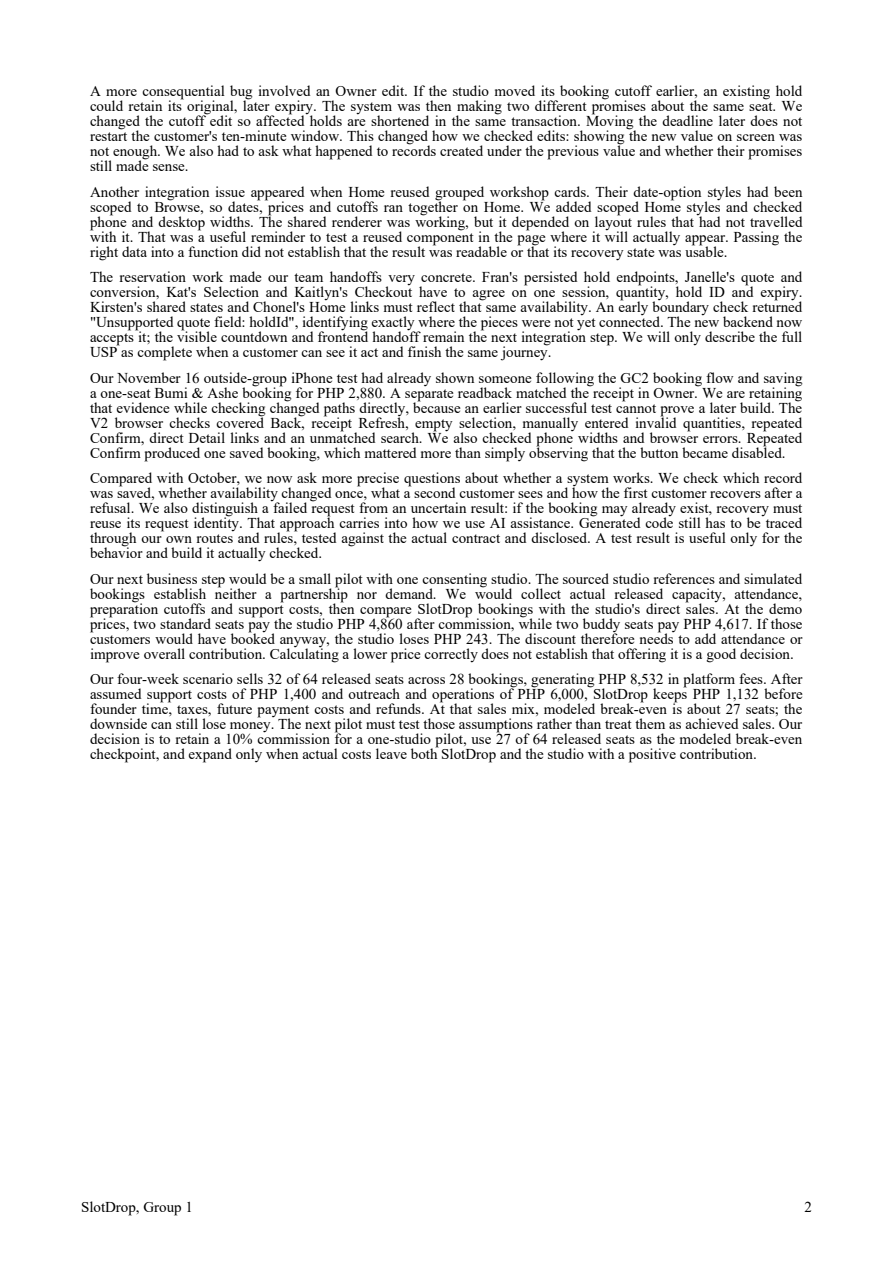
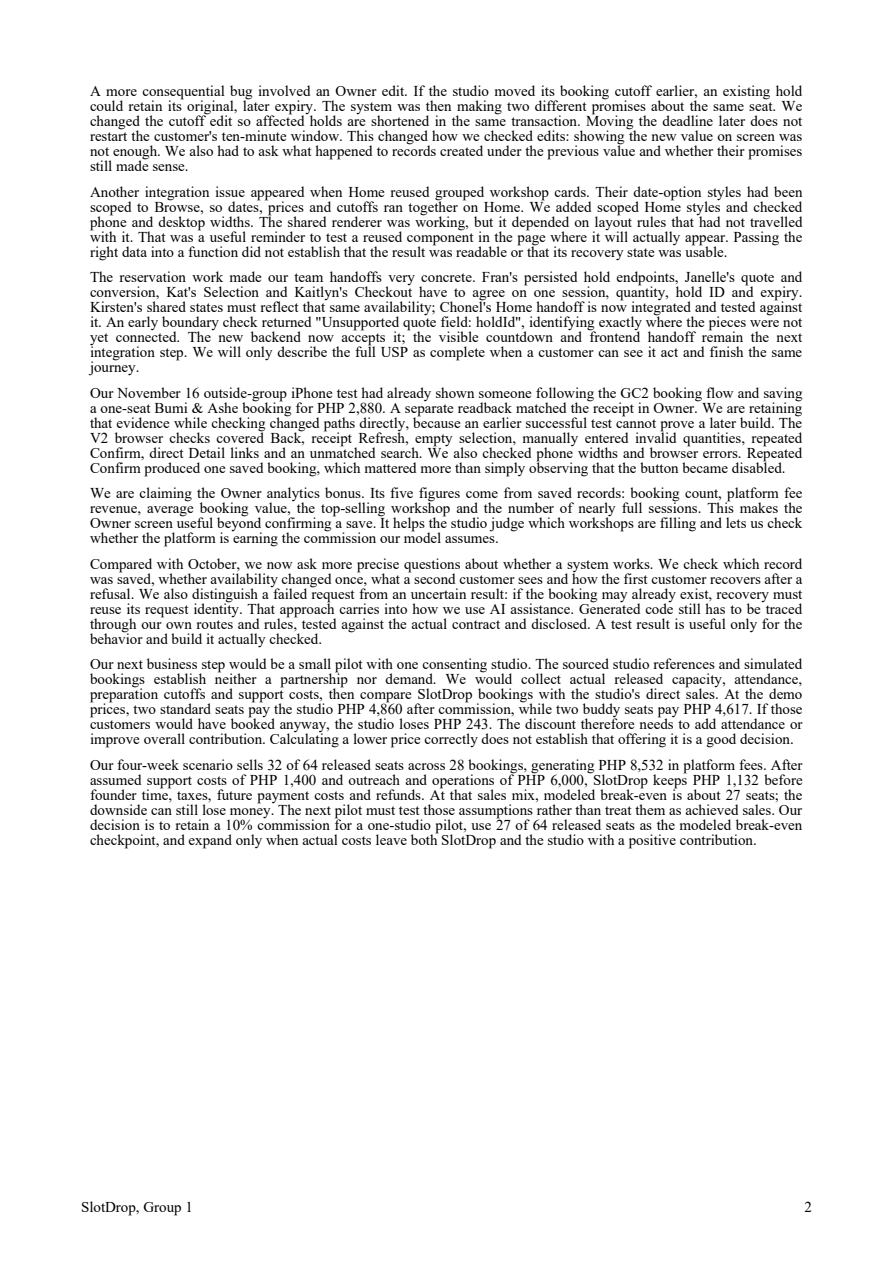
Claim Owner analytics and refresh the verified two-page reflection

Changed region(s): [[0.0907, 0.2162, 0.9071, 0.6793]]

diff --git a/docs/SlotDrop_Final_Reflection.md b/docs/SlotDrop_Final_Reflection.md
@@ -19,9 +19,11 @@ A more consequential bug involved an Owner edit. If the studio moved its booking
 
 Another integration issue appeared when Home reused grouped workshop cards. Their date-option styles had been scoped to Browse, so dates, prices and cutoffs ran together on Home. We added scoped Home styles and checked phone and desktop widths. The shared renderer was working, but it depended on layout rules that had not travelled with it. That was a useful reminder to test a reused component in the page where it will actually appear. Passing the right data into a function did not establish that the result was readable or that its recovery state was usable.
 
-The reservation work made our team handoffs very concrete. Fran's persisted hold endpoints, Janelle's quote and conversion, Kat's Selection and Kaitlyn's Checkout have to agree on one session, quantity, hold ID and expiry. Kirsten's shared states and Chonel's Home links must reflect that same availability. An early boundary check returned "Unsupported quote field: holdId", identifying exactly where the pieces were not yet connected. The new backend now accepts it; the visible countdown and frontend handoff remain the next integration step. We will only describe the full USP as complete when a customer can see it act and finish the same journey.
+The reservation work made our team handoffs very concrete. Fran's persisted hold endpoints, Janelle's quote and conversion, Kat's Selection and Kaitlyn's Checkout have to agree on one session, quantity, hold ID and expiry. Kirsten's shared states must reflect that same availability; Chonel's Home handoff is now integrated and tested against it. An early boundary check returned "Unsupported quote field: holdId", identifying exactly where the pieces were not yet connected. The new backend now accepts it; the visible countdown and frontend handoff remain the next integration step. We will only describe the full USP as complete when a customer can see it act and finish the same journey.
 
 Our November 16 outside-group iPhone test had already shown someone following the GC2 booking flow and saving a one-seat Bumi & Ashe booking for PHP 2,880. A separate readback matched the receipt in Owner. We are retaining that evidence while checking changed paths directly, because an earlier successful test cannot prove a later build. The V2 browser checks covered Back, receipt Refresh, empty selection, manually entered invalid quantities, repeated Confirm, direct Detail links and an unmatched search. We also checked phone widths and browser errors. Repeated Confirm produced one saved booking, which mattered more than simply observing that the button became disabled.
+
+We are claiming the Owner analytics bonus. Its five figures come from saved records: booking count, platform fee revenue, average booking value, the top-selling workshop and the number of nearly full sessions. This makes the Owner screen useful beyond confirming a save. It helps the studio judge which workshops are filling and lets us check whether the platform is earning the commission our model assumes.
 
 Compared with October, we now ask more precise questions about whether a system works. We check which record was saved, whether availability changed once, what a second customer sees and how the first customer recovers after a refusal. We also distinguish a failed request from an uncertain result: if the booking may already exist, recovery must reuse its request identity. That approach carries into how we use AI assistance. Generated code still has to be traced through our own routes and rules, tested against the actual contract and disclosed. A test result is useful only for the behavior and build it actually checked.
 

diff --git a/AI-USAGE.md b/AI-USAGE.md
@@ -180,3 +180,10 @@ The recreated Chromium runner independently passed 10/10 checks at 9cb05bb; full
 Fran asked Codex to execute the review/integration work and take ownership of drafting the complete two-page group reflection. Codex reviewed Janelle's PR95, merged reviewed main into it while retaining both AI disclosures, ran syntax/SQL/full local tests (170 pass, two PostgreSQL-only skips covered by passing CI), the hold-aware Final API gate and ten actual Chromium tinker checks. Fran's review approved the verified head before merging. PR94 had Janelle's independent approval and was also merged. Original teammate authorship is retained.
 
 Codex rewrote the reflection around verified project changes: timed workshop-seat holds, the cold-start comment, cutoff and browser-history bugs, handoff lessons, pilot cannibalization risk and the 10%/27-of-64-seat decision. The backend conversion is now described as implemented; Kat/Kaitlyn's visible countdown and handoff remain pending. The paper uses project evidence rather than fabricated member quotations or experiences. Times New Roman 10 pt, single spacing and exactly two pages were checked programmatically and both rendered pages visually inspected. Fran owns the single group paper; teammates need not supply separate sections. AI disclosure and teacher rules remain in force.
+
+
+## 2026-11-27 — Integrated Home review and Owner bonus claim
+
+Fran used Codex to sweep both projects and finish captain-owned integration. For Home PR93, the reviewed source passed the 26 targeted checks, 176 full local tests with two PostgreSQL-only skips, green real-PostgreSQL CI, and three actual Chrome/HTTP scenarios covering a saved booking and Owner read-back, Home empty/error/retry, mobile widths and browser errors. Fran independently approved the reviewed head and merged it. Main 00feaa5 passed CI and is live on Render. Chonel retains authorship of his Home implementation and tests; his approved absence and completed handoff are unchanged.
+
+Codex updated Fran's single group reflection to state that Home is integrated and explicitly claim the optional Owner analytics bonus, naming its five server-computed figures. The source, Markdown, PDF and matching page previews were regenerated. Verification: exactly two A4 pages; embedded Times New Roman 10 pt; 10 pt leading; 1,501 words; both Poppler-rendered pages visually checked with no clipping and the final numerical business decision intact. The working reflection is updated under its existing file identity, not duplicated. Kat/Kaitlyn's visible hold/countdown handoff remains honestly pending. Janelle's independent review of PR96 and the integrated frontend proof remain required before final release. No final tag or Canvas submission is claimed.

diff --git a/docs/qa-final-reflection-2026-11-27.md b/docs/qa-final-reflection-2026-11-27.md
@@ -1,0 +1,9 @@
+# Final reflection and integrated Home verification
+
+Reviewed group main: `00feaa5f8186f3d98db9470ba9acd228d02ee91d` (Home PR93, V2/browser fixes PR94, atomic conversion PR95). Main CI run 46030235157 passed. Render deploy dep-dc4qk0utlv9c738k2000 is live on that commit; read-only health, Home and grouped workshop responses each returned HTTP 200.
+
+Home review retained Chonel's implementation and test authorship. Combined local validation: 26 targeted checks; 176 full tests passed with two PostgreSQL-only skips covered by green CI. Three actual Chrome/HTTP scenarios passed, including complete booking/receipt refresh/Owner read-back, Home empty/error/retry, grouped-card uniqueness and mobile widths. Disposable test data was used; no production booking was created by this sweep.
+
+Reflection source, Markdown, PDF and previews match. Measured layout: two A4 pages, Times New Roman 10 pt, 10 pt body leading, 1,501 words. Both Poppler-rendered pages were inspected without clipping, overlap or an extra page. The updated text explicitly claims the Owner analytics bonus and retains the numerical 10%/27-of-64-seat pilot decision. Backend conversion and Home are complete; Kat/Kaitlyn's on-screen hold/countdown handoff is still pending and described that way.
+
+This review branch still needs Janelle's independent review. Integrated frontend proof, final main tag and Canvas submission are not completed by a documentation update.
